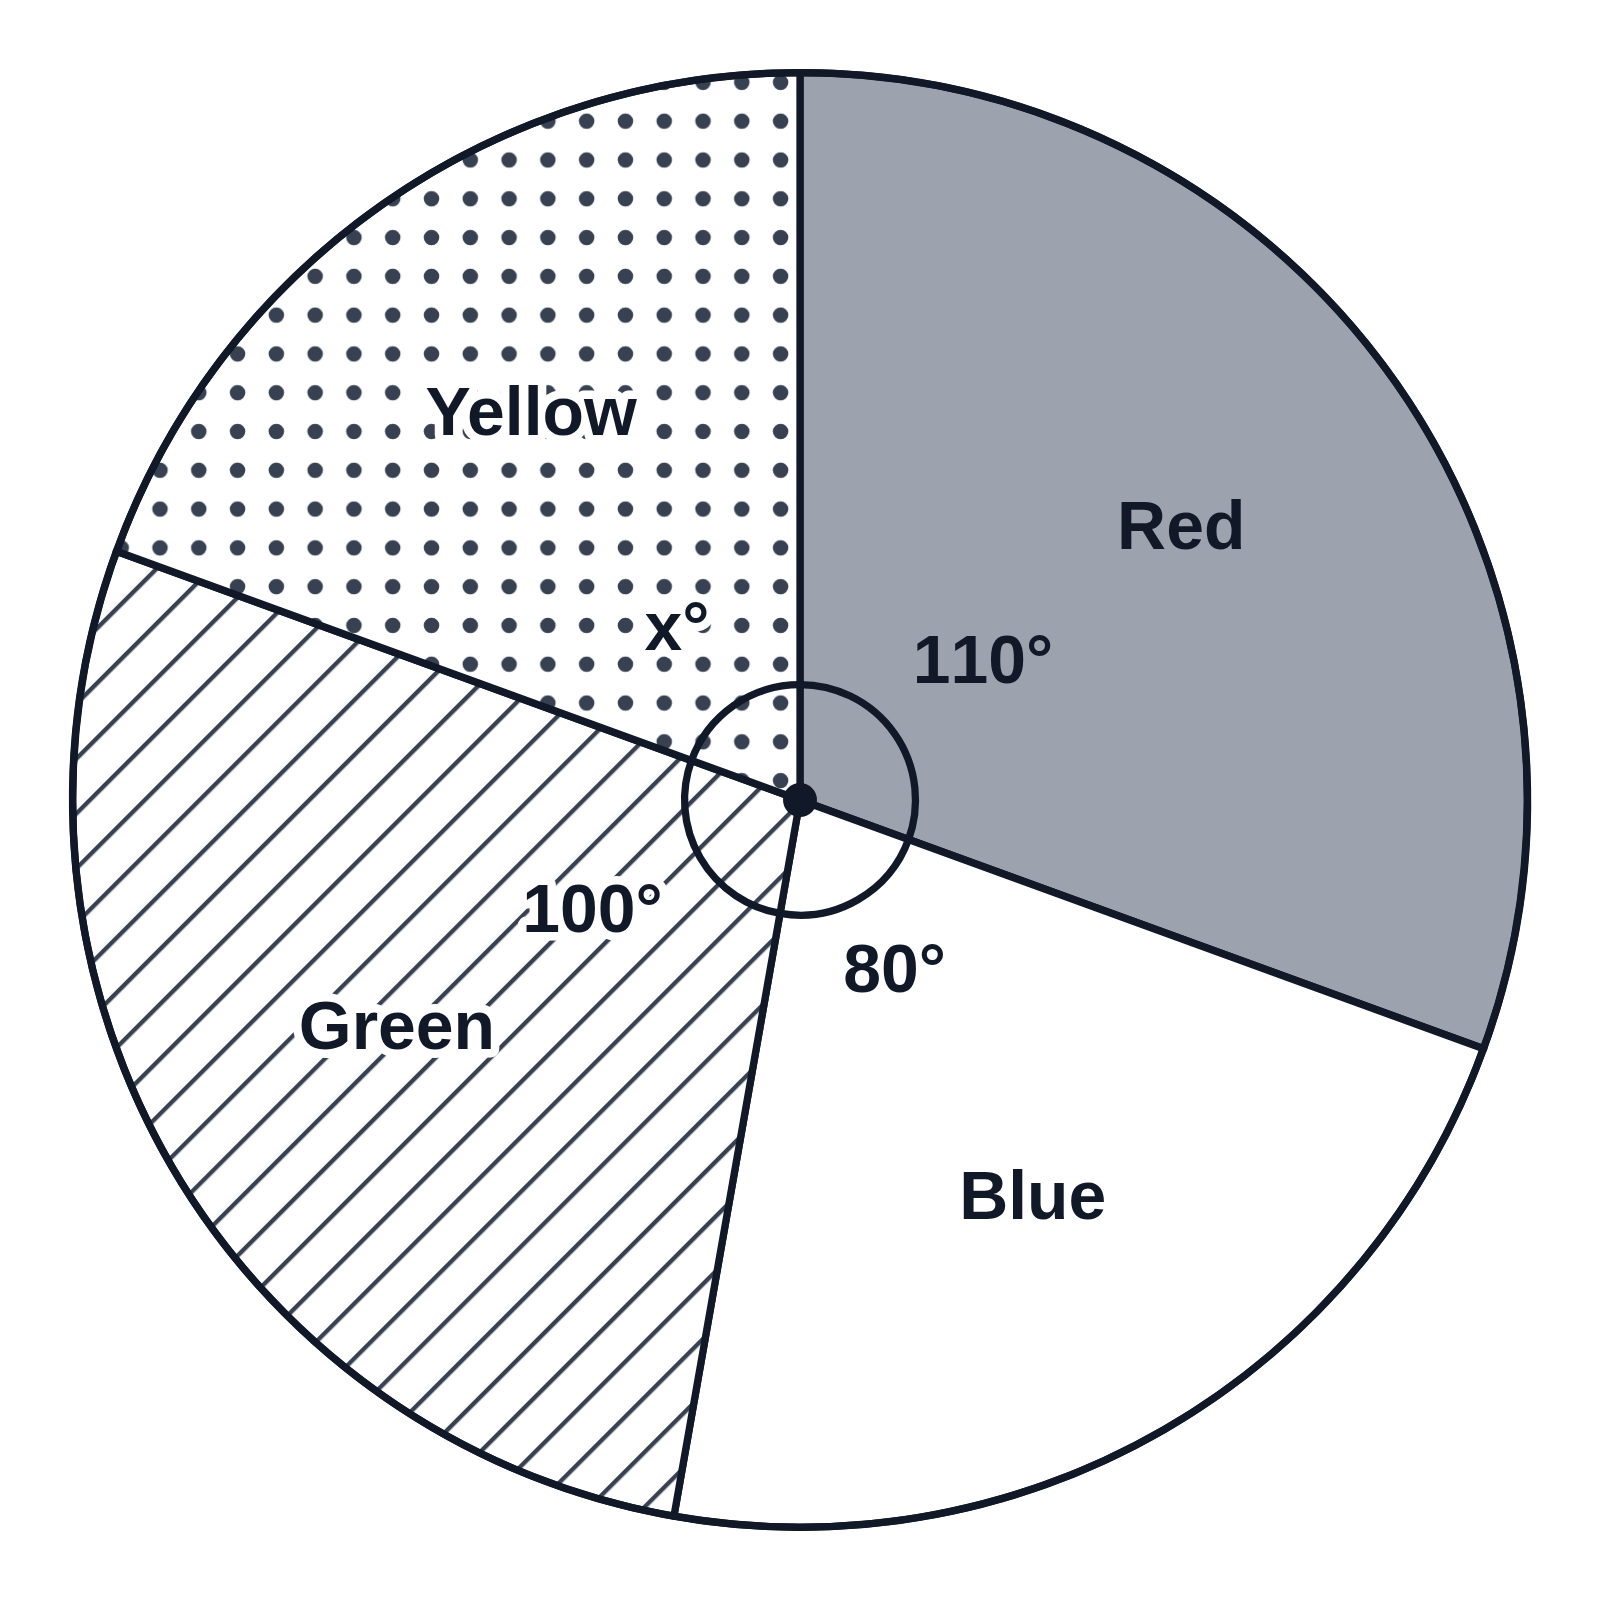
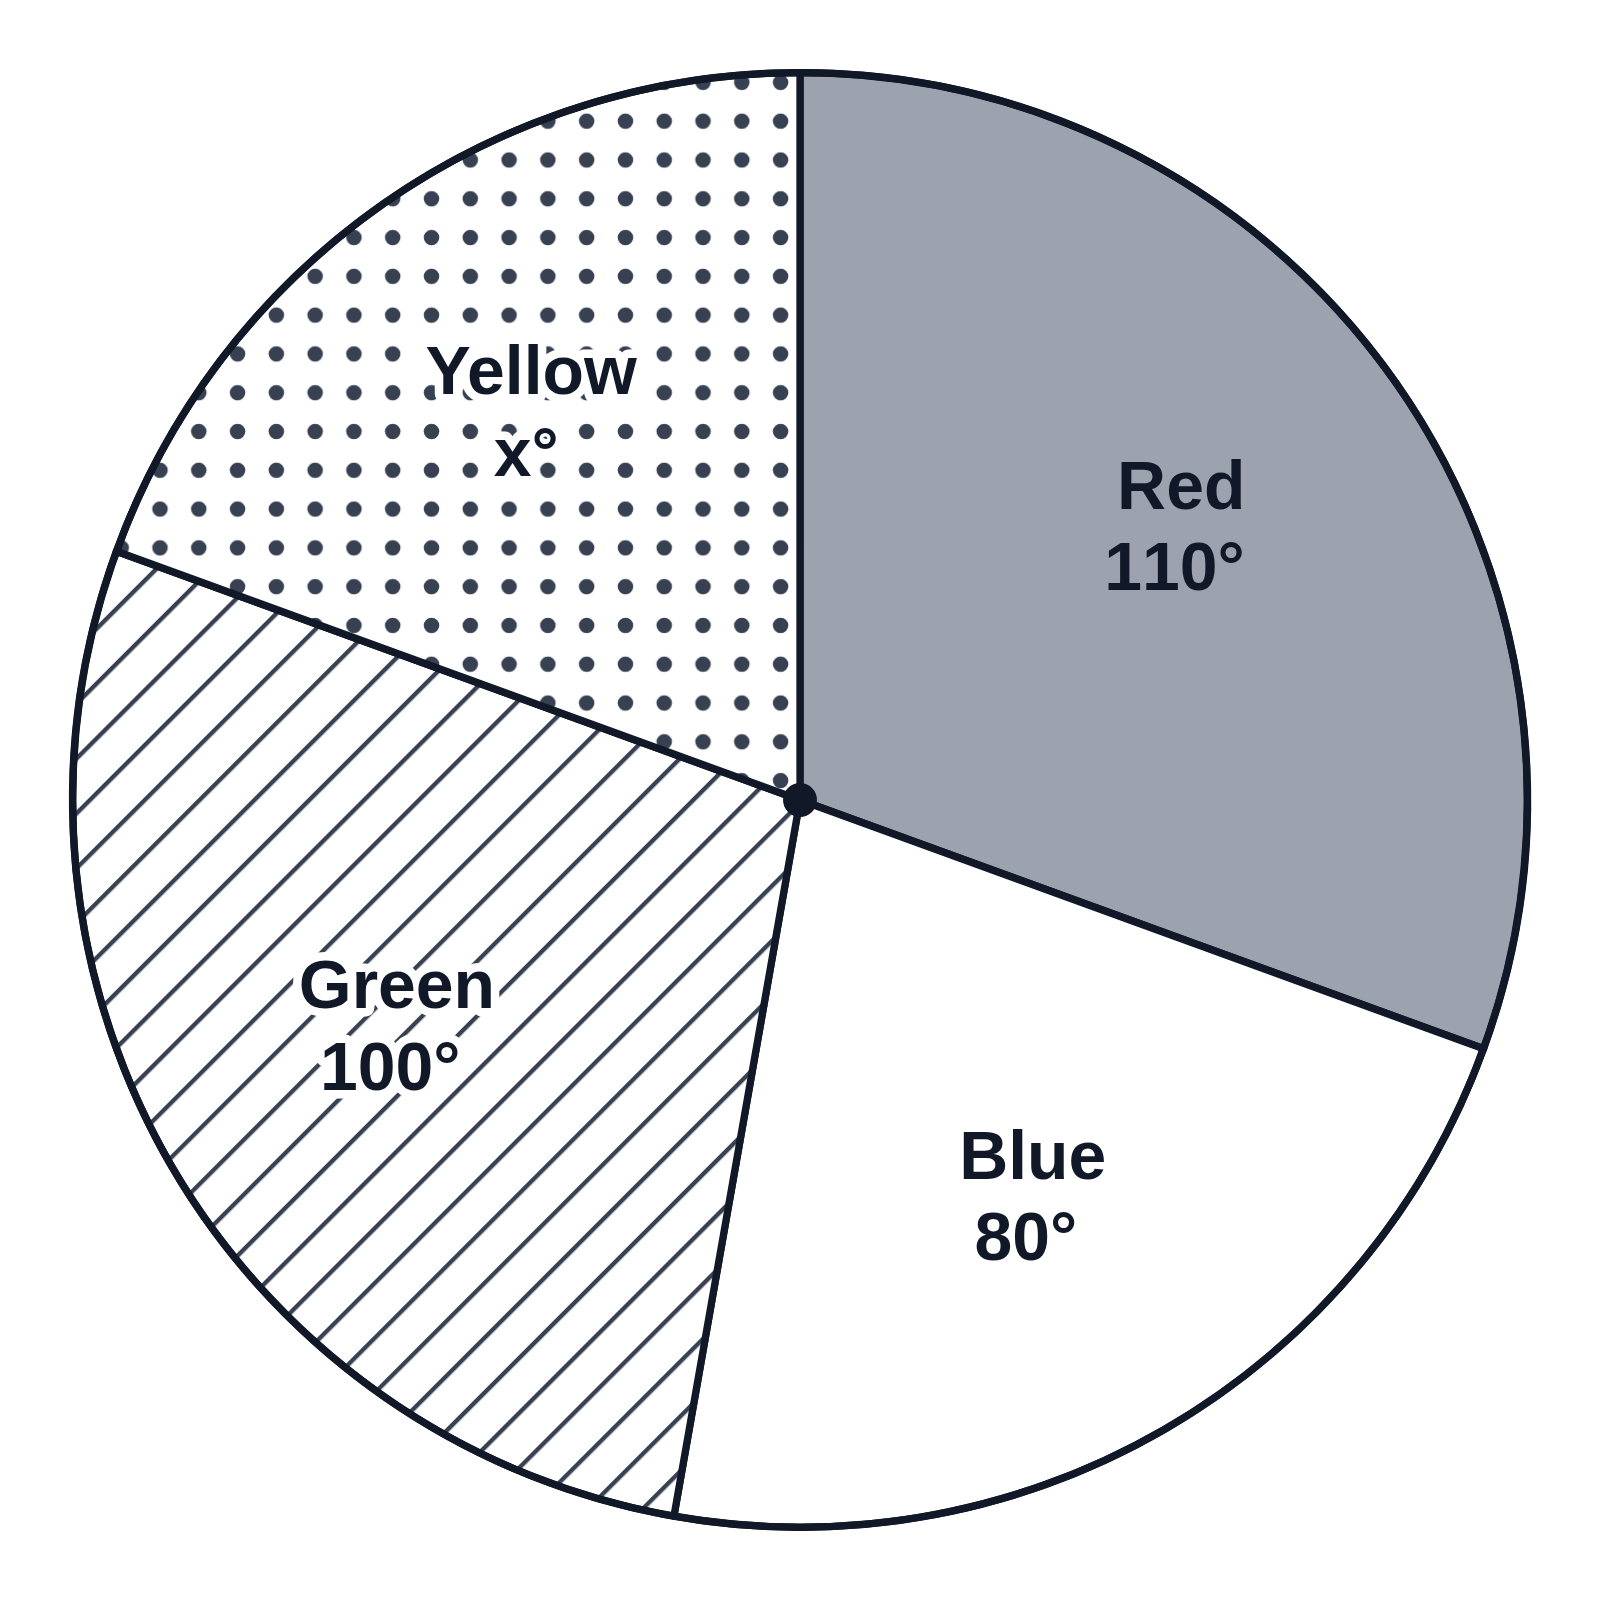
Math Figures: Pie Chart: no angle marks at the center
Arcs and measures at the center are gone; a sector's angle goes in its
label instead (the missing-angle example labels by name and angle, with x°
for Yellow). Part of this change (pie-chart/layout.ts and settings.ts) went
into e1692e6 by mistake, swept up by a `git add -A` while it was being made.

diff --git a/apps/math/src/lib/generators/pie-chart/pie-chart.test.ts b/apps/math/src/lib/generators/pie-chart/pie-chart.test.ts
@@ -20,9 +20,9 @@ function offCenter(a: number[], b: number[]) {
 }
 const farthest = (b: Box) => Math.hypot(Math.max(-b.x0, b.x1), Math.max(-b.y0, b.y1))
 
-/** Every label and measure is clear of every other, and of every sector but its own. */
+/** Every label is clear of every other, and of every sector but its own. */
 function expectClear(p: PieLayout) {
-  const all = [...p.measures, ...p.labels]
+  const all = p.labels
   for (let i = 0; i < all.length; i++) for (let j = i + 1; j < all.length; j++) expect(overlaps(all[i].box, all[j].box), `${all[i].lines[0]?.text} / ${all[j].lines[0]?.text}`).toBe(false)
   for (const l of all) {
     if (!l.inside) {
@@ -46,7 +46,7 @@ describe('the page address', () => {
   test('the table and settings round-trip', () => {
     const s = cleanSettings({
       rows: FRUIT, values: 'count', total: '40', order: 'largest', labels: 'name-percent', sectorLabels: ['', 'blank', '', 'letter'],
-      look: 'bw', fills: ['', 'hatch'], keyAt: 'below', angleMarks: 'measures', centerDot: 'off', titleMode: 'text', title: 'Fruit',
+      look: 'bw', fills: ['', 'hatch'], keyAt: 'below', centerDot: 'off', titleMode: 'text', title: 'Fruit',
     })
     const q = settingsToQuery(s)
     expect(q).toContain('row=Apples%7C12')
@@ -169,8 +169,8 @@ describe('for students', () => {
   })
 
   test('a blank label never writes its numbers, a letter label writes x', () => {
-    const p = pie({ rows: FRUIT, labels: 'name-angle', angleMarks: 'measures', sectorLabels: ['', 'blank', 'letter', 'letter'] })
-    const texts = [...p.labels, ...p.measures].flatMap((l) => l.lines.map((x) => x.text))
+    const p = pie({ rows: FRUIT, labels: 'name-angle', sectorLabels: ['', 'blank', 'letter', 'letter'] })
+    const texts = p.labels.flatMap((l) => l.lines.map((x) => x.text))
     expect(texts).not.toContain('96°')
     expect(texts).toContain('x°')
     expect(texts).toContain('y°')
@@ -178,11 +178,11 @@ describe('for students', () => {
     expect(p.labels[1].lines).toEqual([{ text: 'Bananas', blank: false }, { text: '', blank: true }])
   })
 
-  test('the center dot is on by default once something is left to draw or measure', () => {
+  test('the center dot is on by default once something is left for students', () => {
     expect(pie({ rows: FRUIT }).centerDot).toBe(false)
-    expect(pie({ rows: FRUIT, angleMarks: 'arcs' }).centerDot).toBe(true)
+    expect(pie({ rows: FRUIT, sectorLabels: ['', 'letter'] }).centerDot).toBe(true)
     expect(pie({ rows: [...FRUIT, row('Kiwi')], total: '40' }).centerDot).toBe(true)
-    expect(pie({ rows: FRUIT, angleMarks: 'arcs', centerDot: 'off' }).centerDot).toBe(false)
+    expect(pie({ rows: FRUIT, sectorLabels: ['', 'letter'], centerDot: 'off' }).centerDot).toBe(false)
   })
 })
 
@@ -215,24 +215,8 @@ describe('labels', () => {
     const thin = Array.from({ length: 8 }, (_, i) => row(`Thin ${i + 1}`, '1'))
     for (const rows of [FRUIT, [row('Big', '92'), ...thin], [...thin, row('Big', '92')], [row('A', '1'), row('B', '1'), row('C', '200'), row('D', '1'), row('E', '1'), row('F', '150')]]) {
       for (const labels of ['name', 'name-percent', 'value-percent', 'name-fraction'])
-        for (const labelSize of ['small', 'medium', 'large']) {
-          for (const angleMarks of ['none', 'measures']) expectClear(pie({ rows, labels, labelSize, angleMarks }))
-        }
+        for (const labelSize of ['small', 'medium', 'large']) expectClear(pie({ rows, labels, labelSize }))
     }
-  })
-
-  test('angle marks: one arc per sector, its measure matching the sector drawn', () => {
-    const p = pie({ rows: FRUIT, angleMarks: 'measures', labels: 'name' })
-    expect(p.arcs).toHaveLength(4)
-    const measured = new Map<number, string>()
-    for (const m of p.measures) measured.set(m.sector, m.lines[0].text)
-    for (const l of p.labels) if (l.lines.length > 1) measured.set(l.sector, l.lines.at(-1)!.text)
-    p.sectors.forEach((t, i) => expect(measured.get(i)).toBe(`${Math.round((t.to - t.from) * 10) / 10}°`))
-  })
-
-  test('arcs with no measures write none', () => {
-    const p = pie({ rows: FRUIT, angleMarks: 'arcs', labels: 'none' })
-    expect([p.arcs.length, p.measures.length, p.labels.length]).toEqual([4, 0, 0])
   })
 })
 

diff --git a/apps/math/src/lib/site/generatorCopy.ts b/apps/math/src/lib/site/generatorCopy.ts
@@ -830,11 +830,11 @@ export const COPY: Record<string, GeneratorCopy> = {
     heading: 'Pie charts and circle graphs from a table',
     intro: [
       'The Pie Chart Generator draws a pie chart from a table you type or paste: a category on each row, like Apples or Bananas, and its count, percent or angle in degrees. The sectors run clockwise from 12 o’clock, as pie charts are drawn by hand, in the order typed or largest first. Each sector is labeled inside where it fits, or outside with a short leader line, by its name, value, percent, angle or fraction, or by a key.',
-      'Leave a value empty and its share of the circle is left as one empty sector, for students to complete the pie chart; leave every value empty for a blank circle with its center marked and a radius drawn up to 12 o’clock. Give one sector a blank line or a letter (x°) instead of its label, and mark the angles at the center for measuring with a protractor or working out a missing angle.',
+      'Leave a value empty and its share of the circle is left as one empty sector, for students to complete the pie chart; leave every value empty for a blank circle with its center marked and a radius drawn up to 12 o’clock. Give one sector a blank line or a letter (x°) instead of its label, for students to measure with a protractor or work out a missing angle.',
     ],
     settings: [
       'The table: a category and a value on each row, typed or pasted from a spreadsheet, as counts, percents or degrees, with the total for counts',
-      'The sectors in the order typed or largest first, arcs at the center with or without their measures, and a center dot',
+      'The sectors in the order typed or largest first, and a center dot',
       'Sector labels by name, value, percent, angle or fraction, or a name and a number, with any sector’s own label, a blank line or a letter',
       'Color, black-and-white fills that photocopy, or white sectors to shade, with a fill picked for each sector, and a key on the right or below',
       'A chart title, as text or a blank line for students',
@@ -858,7 +858,7 @@ export const COPY: Record<string, GeneratorCopy> = {
       },
       {
         q: 'How do I label a missing angle x?',
-        a: 'Type the sector’s value, then under Labels pick Letter (x°) for it. Its label becomes x°, or x% when the chart is labeled by percents, and the next sector given a letter gets y. Turn on angle marks to put an arc and the other angles at the center.',
+        a: 'Type the sector’s value, then under Labels pick Letter (x°) for it. Its label becomes x°, or x% when the chart is labeled by percents, and the next sector given a letter gets y.',
       },
     ],
     imageAlt: 'A printable pie chart of favorite fruit, with a colored sector for each fruit labeled with its name and percent, made with the Pie Chart Generator',

diff --git a/apps/math/src/lib/generators/pie-chart/layout.ts b/apps/math/src/lib/generators/pie-chart/layout.ts
@@ -187,14 +187,14 @@ export function buildPieChart(s: Settings) {
    * `far`, where the lines fit clear of everything, nearest the middle of
    * that room.
    */
-  function fitInside(t: { from: number; to: number }, lines: Line[], near: number, far: number, hug = false) {
+  function fitInside(t: { from: number; to: number }, lines: Line[], near: number, far: number) {
     const { widths, w, h } = sizeOf(lines)
     const mid = dir((t.from + t.to) / 2)
     const rays = t.to - t.from > 359.999 ? [] : [t.from, t.to].map((a) => ({ x1: 0, y1: 0, x2: dir(a)[0] * R, y2: dir(a)[1] * R }))
     // Best toward the middle of the sector's room, then nearer the center or the rim.
     const steps: number[] = []
     for (let r = near; r <= far + 1e-9; r += 3) steps.push(r)
-    const ideal = hug ? near : (near + far) / 2
+    const ideal = (near + far) / 2
     steps.sort((a, b) => Math.abs(a - ideal) - Math.abs(b - ideal))
     for (const r of steps) {
       const box = boxAt(mid[0] * r, mid[1] * r, w, h)
@@ -210,12 +210,10 @@ export function buildPieChart(s: Settings) {
   }
 
   // Each sector's label: inside if it fits, else outside.
-  const measured = s.angleMarks === 'measures' && marked
   const labels: Label[] = []
   const outside: { i: number; lines: Line[]; widths: number[]; w: number; h: number; mid: number }[] = []
   sectors.forEach((t, i) => {
-    let lines = labelLines(t.part, s.labels, s.values, t.letter, measured && !folded.has(i))
-    if (folded.has(i)) lines = [...lines, { text: t.letter ? `${t.letter}°` : `${nice(t.part.angle!)}°`, blank: false }]
+    const lines = labelLines(t.part, s.labels, s.values, t.letter)
     if (!lines.length) return
     const whole = t.to - t.from > 359.999
     const spot = whole ? fitInside(t, lines, clearOf + 4, R * 0.75) : fitInside(t, lines, Math.max(clearOf + 4, R * 0.3), R - MARGIN)
@@ -350,8 +348,6 @@ export function buildPieChart(s: Settings) {
     startRadius: blankCircle,
     centerDot,
     dot: DOT,
-    arcs: marks.arcs,
-    measures,
     labels,
     key,
     title,

diff --git a/apps/math/src/lib/examples/examples.ts b/apps/math/src/lib/examples/examples.ts
@@ -1403,9 +1403,9 @@ export const EXAMPLES: Example[] = [
     {
       slug: 'pie-chart-find-the-missing-angle-x',
       title: 'Pie chart: find the missing angle x',
-      alt: 'A black-and-white pie chart of Red, Blue, Green and Yellow with each angle marked at the center, 110°, 80° and 100°, and Yellow’s marked x°',
+      alt: 'A black-and-white pie chart of Red, 110°, Blue, 80°, Green, 100°, and Yellow, x°',
       caption:
-        'A black-and-white pie chart of four sectors named Red, Blue, Green and Yellow, with a dot at the center and an arc there marking each angle: 110°, 80° and 100°, and x° for Yellow. Students find x from the angles around a point adding up to 360°.',
+        'A black-and-white pie chart of four sectors, each labeled with its name and angle: Red 110°, Blue 80°, Green 100° and Yellow x°, with a dot at the center. Students find x from the angles around a point adding up to 360°.',
       settings: {
         rows: [
           { name: 'Red', cells: [{ value: '110' }] },
@@ -1414,9 +1414,9 @@ export const EXAMPLES: Example[] = [
           { name: 'Yellow', cells: [{ value: '70' }] },
         ],
         values: 'degrees',
+        labels: 'name-angle',
         sectorLabels: ['', '', '', 'letter'],
         look: 'bw',
-        angleMarks: 'measures',
       },
     },
     {

diff --git a/apps/math/src/lib/generators/pie-chart/PieChart.svelte b/apps/math/src/lib/generators/pie-chart/PieChart.svelte
@@ -1,6 +1,6 @@
 <script lang="ts">
-  // The pie chart itself: its sectors, any part left empty, the arcs and dot
-  // at the center, the labels with their leader lines, the key and the title,
+  // The pie chart itself: its sectors, any part left empty, the dot at the
+  // center, the labels with their leader lines, the key and the title,
   // as one self-contained SVG for printing and export.
   import { INK, SANS } from '$shared/graph/grid'
   import FillPatterns from '$lib/stats/FillPatterns.svelte'
@@ -47,9 +47,6 @@
     </g>
     {#if settings.look !== 'color'}<circle r={R} fill="none" stroke={INK} stroke-width="1.5" />{/if}
 
-    <g stroke={INK} stroke-width="1.5" fill="none">
-      {#each p.arcs as d}<path {d} />{/each}
-    </g>
     {#if p.centerDot}<circle r={p.dot} fill={INK} />{/if}
 
     <g stroke={INK} stroke-width="1.2" fill="none" stroke-linecap="round" stroke-linejoin="round">
@@ -57,7 +54,7 @@
     </g>
 
     <g font-family={SANS} font-size={p.fs} font-weight="bold" stroke-width="3.5" paint-order="stroke" stroke-linejoin="round">
-      {#each [...p.measures, ...p.labels] as l}
+      {#each p.labels as l}
         <!-- Each line centered: its text, then any blank line to write on. -->
         {#each l.lines as line, k}
           {@const start = l.x - l.widths[k] / 2}

diff --git a/apps/math/src/lib/generators/pie-chart/Generator.svelte b/apps/math/src/lib/generators/pie-chart/Generator.svelte
@@ -15,7 +15,7 @@
   import PieChart from './PieChart.svelte'
   import { buildPieChart } from './layout.js'
   import {
-    ANGLE_MARKS, KEY_PLACES, LABEL_MODES, ORDERS, SECTOR_LABELS, VALUE_KINDS,
+    KEY_PLACES, LABEL_MODES, ORDERS, SECTOR_LABELS, VALUE_KINDS,
     cleanSettings, filledAt, fmt, nice, settingsFromParams, settingsToQuery, type RawSettings, type Settings,
   } from './settings.js'
 
@@ -67,7 +67,6 @@
   const sectorsSummary = $derived(
     [
       ORDERS[clean.order],
-      clean.angleMarks !== 'none' && ANGLE_MARKS[clean.angleMarks].toLowerCase(),
       built.centerDot && 'center dot',
     ].filter(Boolean).join(' · '),
   )
@@ -145,7 +144,6 @@
   {#snippet settings()}
     <Section title="Sectors" icon={ChartPie} summary={sectorsSummary}>
       {@render choice({ key: 'order', name: 'Order', options: ORDERS })}
-      {@render choice({ key: 'angleMarks', name: 'Angle marks at the center', options: ANGLE_MARKS })}
       <label class="check">
         <input type="checkbox" checked={built.centerDot} onchange={(e) => (s.centerDot = e.currentTarget.checked ? 'on' : 'off')} />
         <span>Center dot</span>

diff --git a/apps/math/src/lib/generators/figures.test.ts b/apps/math/src/lib/generators/figures.test.ts
@@ -400,7 +400,7 @@ const PIE = [
   rows('Apples|12', 'Bananas|8', 'Cherries|6', 'Grapes|4'),
   `labels=name-percent&titleMode=text&title=Fruit&keyAt=right&${rows('Apples|12', 'Bananas|8', 'Cherries|6', 'Grapes|4')}`,
   `values=percent&labels=value-percent&look=bw&keyAt=below&order=largest&${rows('Walk|35', 'Car|30', 'Bus|25', 'Bike|8')}`,
-  `values=degrees&angleMarks=measures&lab=%7C%7Cletter%7Cblank&look=bw&${rows('Red|110', 'Blue|80', 'Green|100', 'Yellow|70')}`,
+  `values=degrees&labels=name-angle&lab=%7C%7Cletter%7Cblank&look=bw&${rows('Red|110', 'Blue|80', 'Green|100', 'Yellow|70')}`,
   `total=60&labels=name-angle&fills=dots&centerDot=off&${rows('Soccer|20', 'Basketball|15', 'Tennis|', 'Swimming|')}`,
   `labelSize=large&labels=name&${rows('Big|92', 'One|1', 'Two|1', 'Three|1', 'Four|1', 'Five|1', 'Six|1', 'Seven|1', 'Eight|1')}`,
   `look=white&titleMode=blank&${rows('Dog|', 'Cat|')}`,

diff --git a/apps/math/CONTEXT.md b/apps/math/CONTEXT.md
@@ -387,7 +387,7 @@ A circle cut into sectors, one for each category, each sector's angle the catego
 _Avoid_: Circle graph, pie graph (fine as search words, not as the name)
 
 **Sector (of a pie chart)**:
-The slice of a pie chart for one category, between two radii. Its label is inside it where it fits, or outside with a short leader line, and says its name, value, percent, angle or fraction, or two of them; a sector's own label can be a blank line or a letter (x°) for students to work out. An arc at the center can mark its angle.
+The slice of a pie chart for one category, between two radii. Its label is inside it where it fits, or outside with a short leader line, and says its name, value, percent, angle or fraction, or two of them; a sector's own label can be a blank line or a letter (x°) for students to work out.
 _Avoid_: Slice, wedge, segment (a segment is cut off by a chord)
 
 **Histogram**:

diff --git a/apps/math/README.md b/apps/math/README.md
@@ -67,9 +67,9 @@ and `docs/adr/` for decisions.
 - `/pie-chart` **Pie Chart Generator**: a table of counts, percents or
   degrees typed or pasted, drawn as sectors clockwise from 12 o'clock, labeled
   inside or outside by name, value, percent, angle or fraction (each sector's
-  own label can be a blank line or a letter), with angle marks at the center,
-  a key, and color or black-and-white fills. A value left empty leaves its
-  share as one empty sector; a table with no values draws a blank circle.
+  own label can be a blank line or a letter), with a key and color or
+  black-and-white fills. A value left empty leaves its share as one empty
+  sector; a table with no values draws a blank circle.
 - `/<generator>/examples/<slug>` **Example figures** (see below), and
   `/reuse`, how teachers may reuse them.
 - `/about`, `/privacy`, `/sitemap.xml`, `/robots.txt`
